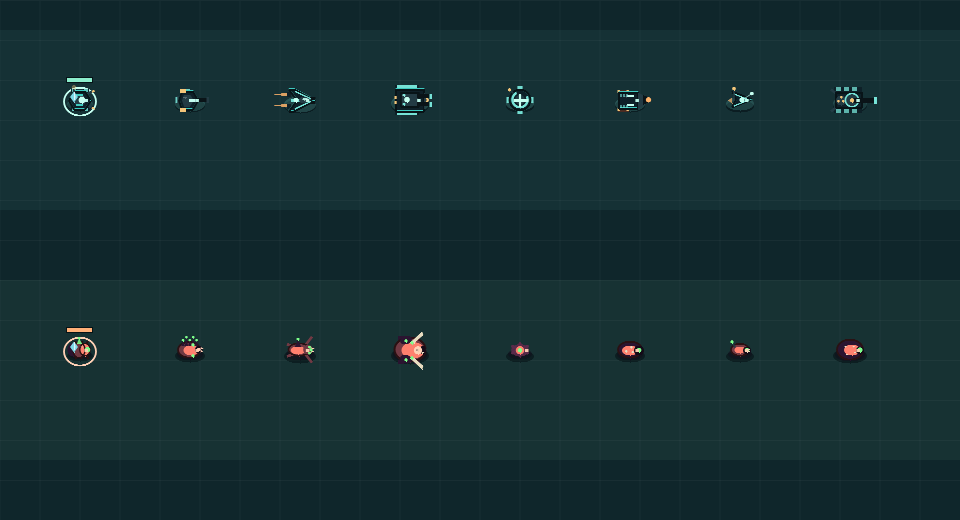
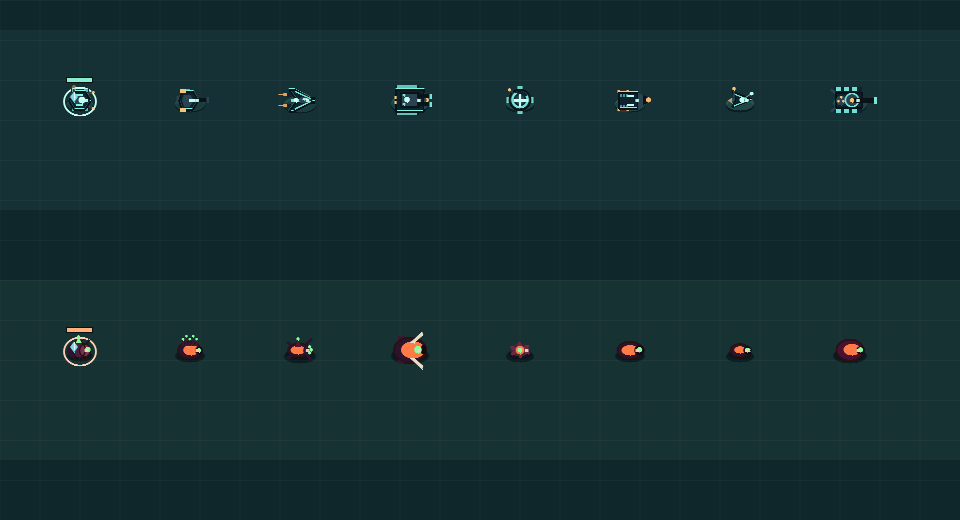
s2 переделан: новые формы S2 по концепту — alien органика orange+шипы, human фаски hullHi, скрины S2 из движка

diff --git a/js/units.s2.js b/js/units.s2.js
@@ -1,147 +1,123 @@
-// S2 — новые скины сезона 2, отдельные от S1. База: концепт units-showcase.png — Гелиос углы/панели teal+amber, Кхарид шипы/хитин orange+violet.
-// Сохраняет совместимость: тот же интерфейс drawUnit(ctx,u,rx,ry), те же u-поля, анимация через performance.now()+id.
-import { TILE, LOGIC_DT, MAP_W, MAP_H, COLORS } from './config.js';
-function rr(ctx,x,y,w,h,r){ r=Math.min(r,w/2,h/2); ctx.beginPath(); ctx.moveTo(x+r,y); ctx.arcTo(x+w,y,x+w,y+h,r); ctx.arcTo(x+w,y+h,x,y+h,r); ctx.arcTo(x,y+h,x,y,r); ctx.arcTo(x,y,x+w,y,r); ctx.closePath(); }
-function poly(ctx,p){ ctx.beginPath(); ctx.moveTo(p[0],p[1]); for(let i=2;i<p.length;i+=2) ctx.lineTo(p[i],p[i+1]); ctx.closePath(); }
+// S2 — отдельные высококачественные скины сезона 2, близкие к концепту design/concepts/units-showcase.png
+// Интерфейс как в S1: drawUnit(ctx,u,rx,ry), анимация t=performance.now*0.001+id*1.618, shadowBlur≤9
+import { TILE, COLORS } from './config.js';
+function rr(c,x,y,w,h,r){r=Math.min(r,w/2,h/2);c.beginPath();c.moveTo(x+r,y);c.arcTo(x+w,y,x+w,y+h,r);c.arcTo(x+w,y+h,x,y+h,r);c.arcTo(x,y+h,x,y,r);c.arcTo(x,y,x+w,y,r);c.closePath();}
+function poly(c,p){c.beginPath();c.moveTo(p[0],p[1]);for(let i=2;i<p.length;i+=2)c.lineTo(p[i],p[i+1]);c.closePath();}
 export function drawUnit(ctx,u,rx,ry){
-  const isP=u.side==='player';
-  const main=isP?COLORS.player:COLORS.enemy;
-  const dark=isP?COLORS.playerDark:COLORS.enemyDark;
-  const bright=isP?COLORS.playerBright:COLORS.enemyBright;
-  const hull='#0e2028', hull2='#233b44', hullHi='#3ecac0', amber='#f3c579', heat='#ffb36b';
-  const flesh='#2a1430', flesh2='#5a2a4a', maw='#140a18', bone='#e8dcc0', outline=isP?'#081418':'#2a1113';
-  const bio='#7dff8a', alien=u.faction==='alien';
-  ctx.fillStyle='rgba(0,8,13,0.47)'; ctx.beginPath(); ctx.ellipse(rx,ry+6,u.r+3,u.r*0.55,0,0,Math.PI*2); ctx.fill();
-  if(u.selected){ ctx.strokeStyle=bright; ctx.lineWidth=1.8; ctx.beginPath(); ctx.ellipse(rx,ry+2,u.r+6,u.r+4,0,0,Math.PI*2); ctx.stroke(); }
-  ctx.save(); ctx.translate(rx,ry); ctx.rotate(u.angle);
-  const t=performance.now()*0.001+u.id*1.618;
-  const pulse=0.5+0.5*Math.sin(t*2.85), flick=0.72+0.28*Math.sin(t*23+u.id), step=u.moving?Math.sin(t*14):0, sway=Math.sin(t*2.1)*0.5;
-  const cdMax=u.cfg.cooldown||1, recoil=u.cd>0?Math.min(1,u.cd/cdMax):0, heatGlow=Math.max(pulse*0.35,recoil), eng=u.moving?1:0.45;
-  const spec=(x,y,rx,ry,a=0.3)=>{ ctx.fillStyle=`rgba(255,255,255,${a})`; ctx.beginPath(); ctx.ellipse(x,y,rx,ry,0,0,Math.PI*2); ctx.fill(); };
+  const isP=u.side==='player', main=isP?COLORS.player:COLORS.enemy, dark=isP?COLORS.playerDark:COLORS.enemyDark, bright=isP?COLORS.playerBright:COLORS.enemyBright;
+  const hull='#0e2230', hull2='#2a4350', hullHi='#7df3e2', amber='#f3c579', heat='#ffb86b', bio='#8aff9e', flesh='#3a1830', maw='#120a14', bone='#e9dcc0', outline=isP?'#081418':'#2a1113', alien=u.faction==='alien';
+  ctx.fillStyle='rgba(0,8,13,0.48)';ctx.beginPath();ctx.ellipse(rx,ry+6,u.r+3,u.r*0.55,0,0,Math.PI*2);ctx.fill();
+  if(u.selected){ctx.strokeStyle=bright;ctx.lineWidth=1.8;ctx.beginPath();ctx.ellipse(rx,ry+2,u.r+6,u.r+4,0,0,Math.PI*2);ctx.stroke();}
+  ctx.save();ctx.translate(rx,ry);ctx.rotate(u.angle);
+  const t=performance.now()*0.001+u.id*1.618, pulse=0.5+0.5*Math.sin(t*2.85), flick=0.72+0.28*Math.sin(t*23+u.id), step=u.moving?Math.sin(t*14):0, sway=Math.sin(t*2.1)*0.5, cdMax=u.cfg.cooldown||1, recoil=u.cd>0?Math.min(1,u.cd/cdMax):0, eng=u.moving?1:0.45, heatGlow=Math.max(pulse*0.35,recoil);
+  const spec=(x,y,rx,ry,a=0.28)=>{ctx.fillStyle=`rgba(255,255,255,${a})`;ctx.beginPath();ctx.ellipse(x,y,rx,ry,0,0,Math.PI*2);ctx.fill();};
   if(alien){
-    ctx.fillStyle='rgba(20,8,26,0.4)'; ctx.beginPath(); ctx.ellipse(0,4,u.r+1,u.r*0.5,0,0,Math.PI*2); ctx.fill();
+    ctx.fillStyle='rgba(18,8,24,0.42)';ctx.beginPath();ctx.ellipse(0,4,u.r+1,u.r*0.5,0,0,Math.PI*2);ctx.fill();
     if(u.type==='worker'){
-      // S2 собиратель: 3 бронированных сегмента, массивные клешни, спинной кристалл
-      ctx.strokeStyle=outline; ctx.lineWidth=2;
-      for(let i=0;i<3;i++){ const lx=-6+i*6, sw=(i%2?step:-step)*1.3; ctx.beginPath(); ctx.moveTo(lx,-4); ctx.lineTo(lx+2+sw,-9); ctx.stroke(); ctx.beginPath(); ctx.moveTo(lx,4); ctx.lineTo(lx+2-sw,9); ctx.stroke(); }
-      ctx.fillStyle=flesh; ctx.beginPath(); ctx.ellipse(-7,0,5.5,6.8,0,0,Math.PI*2); ctx.fill();
-      ctx.fillStyle=dark; ctx.beginPath(); ctx.ellipse(-1,0,6,7.8,0,0,Math.PI*2); ctx.fill();
-      ctx.fillStyle=main; ctx.beginPath(); ctx.ellipse(5,0,5.2,6.2,0,0,Math.PI*2); ctx.fill();
-      ctx.strokeStyle=outline; ctx.lineWidth=1.4; ctx.beginPath(); ctx.ellipse(-1,0,6,7.8,0,0,Math.PI*2); ctx.stroke(); ctx.beginPath(); ctx.ellipse(5,0,5.2,6.2,0,0,Math.PI*2); ctx.stroke();
-      // S2: кристаллический нарост на спине
-      ctx.fillStyle=bio; ctx.globalAlpha=0.9; poly(ctx,[-3,-7, -1,-12, 2,-7]); ctx.fill(); ctx.globalAlpha=1; ctx.beginPath(); ctx.arc(-1,-12,1.4,0,Math.PI*2); ctx.fill();
-      ctx.strokeStyle=bright; ctx.lineWidth=2; ctx.beginPath(); ctx.moveTo(9,-4); ctx.quadraticCurveTo(14,-4,15,-7); ctx.stroke(); ctx.beginPath(); ctx.moveTo(9,4); ctx.quadraticCurveTo(14,4,15,7); ctx.stroke();
-      ctx.shadowColor=bio; ctx.shadowBlur=7; ctx.fillStyle=bio; ctx.beginPath(); ctx.arc(7.5,0,2.6+pulse,0,Math.PI*2); ctx.fill(); ctx.shadowBlur=0; spec(2,-4,1.8,1,0.18);
+      // S2: трёхсегментный краб, бронированные пластины, кристалл на спине, массивные клешни
+      ctx.strokeStyle=outline;ctx.lineWidth=2.2;for(let i=0;i<3;i++){const lx=-6+i*6,sw=(i%2?step:-step)*1.4;ctx.beginPath();ctx.moveTo(lx,-4);ctx.lineTo(lx+2+sw,-10);ctx.stroke();ctx.beginPath();ctx.moveTo(lx,4);ctx.lineTo(lx+2-sw,10);ctx.stroke();}
+      ctx.fillStyle='#2e1430';ctx.beginPath();ctx.ellipse(-7,0,5.8,7,0,0,Math.PI*2);ctx.fill();
+      ctx.fillStyle='#4a2040';ctx.beginPath();ctx.ellipse(-1,0,6.2,8,0,0,Math.PI*2);ctx.fill();
+      ctx.fillStyle='#7a2e52';ctx.beginPath();ctx.ellipse(5,0,5.4,6.4,0,0,Math.PI*2);ctx.fill();
+      ctx.strokeStyle=outline;ctx.lineWidth=1.4;ctx.beginPath();ctx.ellipse(-1,0,6.2,8,0,0,Math.PI*2);ctx.stroke();ctx.beginPath();ctx.ellipse(5,0,5.4,6.4,0,0,Math.PI*2);ctx.stroke();
+      // спинной кристалл S2
+      ctx.fillStyle=bio;poly(ctx,[-4,-7.5,-1.5,-13,1.5,-7.5]);ctx.fill();ctx.shadowColor=bio;ctx.shadowBlur=7;ctx.beginPath();ctx.arc(-1.5,-13,1.6,0,Math.PI*2);ctx.fill();ctx.shadowBlur=0;
+      ctx.strokeStyle=bright;ctx.lineWidth=2;ctx.beginPath();ctx.moveTo(9,-3.5);ctx.quadraticCurveTo(14,-3.5,15.5,-7);ctx.stroke();ctx.beginPath();ctx.moveTo(9,3.5);ctx.quadraticCurveTo(14,3.5,15.5,7);ctx.stroke();
+      ctx.shadowColor=bio;ctx.shadowBlur=7;ctx.fillStyle=bio;ctx.beginPath();ctx.arc(7.8,0,2.8+pulse,0,Math.PI*2);ctx.fill();ctx.shadowBlur=0;
     } else if(u.type==='marine'){
-      ctx.fillStyle=dark; ctx.beginPath(); ctx.ellipse(-1,0,11,7.8,0,0,Math.PI*2); ctx.fill(); ctx.strokeStyle=outline; ctx.lineWidth=1.8; ctx.beginPath(); ctx.ellipse(-1,0,11,7.8,0,0,Math.PI*2); ctx.stroke();
-      ctx.fillStyle=main; ctx.beginPath(); ctx.ellipse(1,0,7.5,5.2,0,0,Math.PI*2); ctx.fill();
-      for(let i=0;i<5;i++){ const sx=-7+i*3.4,h=5.5+(i%2)*2.5; ctx.fillStyle=flesh; poly(ctx,[sx-1.6,-4.5,sx,-4.5-h,sx+1.6,-4.5]); ctx.fill(); ctx.fillStyle=bio; ctx.beginPath(); ctx.arc(sx,-4.5-h,1.3,0,Math.PI*2); ctx.fill(); }
-      ctx.fillStyle=bio; ctx.beginPath(); ctx.arc(3,-5.4,1.6,0,Math.PI*2); ctx.fill(); ctx.beginPath(); ctx.arc(3,5.4,1.6,0,Math.PI*2); ctx.fill();
-      ctx.fillStyle=maw; ctx.beginPath(); ctx.arc(8.8,0,3.8,0,Math.PI*2); ctx.fill();
-      ctx.fillStyle=bright; poly(ctx,[10.8,-2.8,13.4,-1.5,10.8,-0.4]); ctx.fill(); poly(ctx,[10.8,2.8,13.4,1.5,10.8,0.4]); ctx.fill();
-      ctx.shadowColor=bright; ctx.shadowBlur=8; ctx.fillStyle=bright; ctx.beginPath(); ctx.arc(8.8,0,1.8+pulse*0.8,0,Math.PI*2); ctx.fill(); ctx.shadowBlur=0;
+      ctx.fillStyle='#2a1430';ctx.beginPath();ctx.ellipse(-0.5,0,11.5,8.2,0,0,Math.PI*2);ctx.fill();ctx.strokeStyle=outline;ctx.lineWidth=1.8;ctx.stroke();
+      ctx.fillStyle='#ff7a45';ctx.beginPath();ctx.ellipse(1,0,7.8,5.4,0,0,Math.PI*2);ctx.fill();
+      for(let i=0;i<5;i++){const sx=-7+i*3.4,h=6+(i%2)*2.8;ctx.fillStyle='#3a1830';poly(ctx,[sx-1.7,-4.6,sx,-4.6-h,sx+1.7,-4.6]);ctx.fill();ctx.fillStyle=bio;ctx.beginPath();ctx.arc(sx,-4.6-h,1.3,0,Math.PI*2);ctx.fill();}
+      ctx.fillStyle=maw;ctx.beginPath();ctx.arc(9,0,4,0,Math.PI*2);ctx.fill();ctx.shadowColor=bio;ctx.shadowBlur=7;ctx.fillStyle=bio;ctx.beginPath();ctx.arc(9,0,1.9+pulse*0.8,0,Math.PI*2);ctx.fill();ctx.shadowBlur=0;spec(-2,-4,2,1,0.2);
     } else if(u.type==='buggy'){
-      ctx.strokeStyle=dark; ctx.lineWidth=2.6; const f=step*3; ctx.beginPath(); ctx.moveTo(5,-4); ctx.lineTo(12,-10-f); ctx.stroke(); ctx.beginPath(); ctx.moveTo(5,4); ctx.lineTo(12,10+f); ctx.stroke(); ctx.beginPath(); ctx.moveTo(-6,-4); ctx.lineTo(-13,-9+f); ctx.stroke(); ctx.beginPath(); ctx.moveTo(-6,4); ctx.lineTo(-13,9-f); ctx.stroke();
-      ctx.fillStyle=dark; ctx.beginPath(); ctx.ellipse(-1,0,10.5,6.2,0,0,Math.PI*2); ctx.fill(); ctx.strokeStyle=outline; ctx.lineWidth=1.6; ctx.beginPath(); ctx.ellipse(-1,0,10.5,6.2,0,0,Math.PI*2); ctx.stroke();
-      ctx.fillStyle=main; ctx.beginPath(); ctx.ellipse(-2,0,7.2,4.2,0,0,Math.PI*2); ctx.fill(); ctx.fillStyle=flesh; poly(ctx,[-5,-4,-2,-11,1,-4]); ctx.fill(); ctx.fillStyle=bio; ctx.beginPath(); ctx.arc(-2,-11,1.5,0,Math.PI*2); ctx.fill();
-      ctx.fillStyle=dark; ctx.beginPath(); ctx.arc(8,0,4.8,0,Math.PI*2); ctx.fill(); ctx.fillStyle=bright; poly(ctx,[11.5,-2.7,14.2,-1.6,11.5,-0.6]); ctx.fill(); poly(ctx,[11.5,2.7,14.2,1.6,11.5,0.6]); ctx.fill();
-      ctx.shadowColor=bio; ctx.shadowBlur=6; ctx.fillStyle=bio; ctx.beginPath(); ctx.arc(9.5,-2.7,1.5,0,Math.PI*2); ctx.fill(); ctx.beginPath(); ctx.arc(11,0,1.6,0,Math.PI*2); ctx.fill(); ctx.beginPath(); ctx.arc(9.5,2.7,1.5,0,Math.PI*2); ctx.fill(); ctx.shadowBlur=0;
+      ctx.strokeStyle='#2a1430';ctx.lineWidth=2.8;const f=step*3;ctx.beginPath();ctx.moveTo(5,-4);ctx.lineTo(12,-10-f);ctx.stroke();ctx.beginPath();ctx.moveTo(5,4);ctx.lineTo(12,10+f);ctx.stroke();ctx.beginPath();ctx.moveTo(-6,-4);ctx.lineTo(-13,-9+f);ctx.stroke();ctx.beginPath();ctx.moveTo(-6,4);ctx.lineTo(-13,9-f);ctx.stroke();
+      ctx.fillStyle='#2a1430';ctx.beginPath();ctx.ellipse(-1,0,11,6.6,0,0,Math.PI*2);ctx.fill();ctx.strokeStyle=outline;ctx.lineWidth=1.6;ctx.stroke();
+      ctx.fillStyle='#ff7a45';ctx.beginPath();ctx.ellipse(-2,0,7.4,4.4,0,0,Math.PI*2);ctx.fill();ctx.fillStyle='#5a1030';poly(ctx,[-5,-4,-2,-11.5,1,-4]);ctx.fill();ctx.fillStyle=bio;ctx.beginPath();ctx.arc(-2,-11.5,1.6,0,Math.PI*2);ctx.fill();
+      ctx.fillStyle='#2a1430';ctx.beginPath();ctx.arc(8.2,0,5,0,Math.PI*2);ctx.fill();ctx.shadowColor=bio;ctx.shadowBlur=7;ctx.fillStyle=bio;ctx.beginPath();ctx.arc(9.6,-2.8,1.6,0,Math.PI*2);ctx.fill();ctx.beginPath();ctx.arc(11.2,0,1.7,0,Math.PI*2);ctx.fill();ctx.beginPath();ctx.arc(9.6,2.8,1.6,0,Math.PI*2);ctx.fill();ctx.shadowBlur=0;
     } else if(u.type==='tank'){
-      ctx.fillStyle=flesh; ctx.fillRect(-12,-14,6,4); ctx.fillRect(-12,10,6,4); ctx.fillRect(4,-13.5,6,4); ctx.fillRect(4,9.5,6,4);
-      ctx.fillStyle=dark; ctx.beginPath(); ctx.ellipse(0,0,15.5,12,0,0,Math.PI*2); ctx.fill(); ctx.strokeStyle=outline; ctx.lineWidth=2; ctx.beginPath(); ctx.ellipse(0,0,15.5,12,0,0,Math.PI*2); ctx.stroke();
-      ctx.fillStyle=main; ctx.beginPath(); ctx.ellipse(3,0,11.5,8.2,0,0,Math.PI*2); ctx.fill();
-      ctx.fillStyle=flesh; ctx.beginPath(); ctx.ellipse(-4,-9.5,6,4.2,-0.3,0,Math.PI*2); ctx.fill(); ctx.beginPath(); ctx.ellipse(-4,9.5,6,4.2,0.3,0,Math.PI*2); ctx.fill(); ctx.fillStyle=bio; ctx.beginPath(); ctx.arc(-4,-9.5,1.6,0,Math.PI*2); ctx.fill(); ctx.beginPath(); ctx.arc(-4,9.5,1.6,0,Math.PI*2); ctx.fill();
-      for(const s of [-1,1]){ ctx.fillStyle=bone; ctx.beginPath(); ctx.moveTo(0,8*s); ctx.quadraticCurveTo(6,13*s,12,19*s); ctx.quadraticCurveTo(13.5,16.5*s,13,15*s); ctx.quadraticCurveTo(8,11*s,4,7*s); ctx.closePath(); ctx.fill(); ctx.strokeStyle=outline; ctx.lineWidth=1.2; ctx.stroke(); ctx.fillStyle=bio; ctx.beginPath(); ctx.arc(2,7.5*s,1.6,0,Math.PI*2); ctx.fill(); }
-      ctx.fillStyle=maw; ctx.beginPath(); ctx.ellipse(13,0,2.8,4.5,0,0,Math.PI*2); ctx.fill(); ctx.fillStyle=bone; for(let i=-1;i<=1;i++) poly(ctx,[12,i*2.4-0.8,14.8,i*2.4,12,i*2.4+0.8]); ctx.fill();
-      ctx.shadowColor=bright; ctx.shadowBlur=9; ctx.fillStyle=bright; ctx.beginPath(); ctx.arc(8,0,3.4+pulse,0,Math.PI*2); ctx.fill(); ctx.shadowBlur=0; ctx.fillStyle=maw; ctx.beginPath(); ctx.arc(8,0,1.4,0,Math.PI*2); ctx.fill();
+      ctx.fillStyle='#3a1830';ctx.fillRect(-12,-14,6,4);ctx.fillRect(-12,10,6,4);ctx.fillRect(4,-13.5,6,4);ctx.fillRect(4,9.5,6,4);
+      ctx.fillStyle='#2a1430';ctx.beginPath();ctx.ellipse(0,0,16,12.5,0,0,Math.PI*2);ctx.fill();ctx.strokeStyle=outline;ctx.lineWidth=2;ctx.stroke();
+      ctx.fillStyle='#ff7a45';ctx.beginPath();ctx.ellipse(3,0,12,8.6,0,0,Math.PI*2);ctx.fill();
+      for(const s of[-1,1]){ctx.fillStyle=bone;ctx.beginPath();ctx.moveTo(0,8*s);ctx.quadraticCurveTo(6,13*s,12,19*s);ctx.quadraticCurveTo(13.5,16.5*s,13,15*s);ctx.quadraticCurveTo(8,11*s,4,7*s);ctx.closePath();ctx.fill();ctx.strokeStyle=outline;ctx.lineWidth=1.2;ctx.stroke();}
+      ctx.fillStyle=maw;ctx.beginPath();ctx.ellipse(13.5,0,3,4.8,0,0,Math.PI*2);ctx.fill();ctx.shadowColor=bio;ctx.shadowBlur=8;ctx.fillStyle=bio;ctx.beginPath();ctx.arc(8,0,3.2+pulse,0,Math.PI*2);ctx.fill();ctx.shadowBlur=0;
     } else if(u.type==='medic'){
-      const pr=8.8+pulse; ctx.fillStyle='rgba(90,42,74,0.9)'; ctx.beginPath(); ctx.ellipse(0,0,pr,pr*0.7,0,0,Math.PI*2); ctx.fill();
-      for(let i=0;i<6;i++){ const a=(i*Math.PI*2)/6+t*0.6; ctx.fillStyle=flesh2; ctx.beginPath(); ctx.ellipse(Math.cos(a)*7,Math.sin(a)*4.8,3.2,1.8,a,0,Math.PI*2); ctx.fill(); }
-      ctx.fillStyle=main; ctx.beginPath(); ctx.arc(0,0,4.2,0,Math.PI*2); ctx.fill(); ctx.shadowColor=bio; ctx.shadowBlur=6; ctx.fillStyle=bio; ctx.beginPath(); ctx.arc(0,0,2.2+pulse*0.6,0,Math.PI*2); ctx.fill(); ctx.shadowBlur=0;
+      const pr=9+pulse;ctx.fillStyle='#4a2040';ctx.beginPath();ctx.ellipse(0,0,pr,pr*0.72,0,0,Math.PI*2);ctx.fill();
+      for(let i=0;i<6;i++){const a=(i*Math.PI*2)/6+t*0.6;ctx.fillStyle='#6a2a40';ctx.beginPath();ctx.ellipse(Math.cos(a)*7.5,Math.sin(a)*5,3.4,1.9,a,0,Math.PI*2);ctx.fill();}
+      ctx.fillStyle='#ff7a45';ctx.beginPath();ctx.arc(0,0,4.4,0,Math.PI*2);ctx.fill();ctx.shadowColor=bio;ctx.shadowBlur=7;ctx.fillStyle=bio;ctx.beginPath();ctx.arc(0,0,2.4+pulse*0.6,0,Math.PI*2);ctx.fill();ctx.shadowBlur=0;
     } else if(u.type==='flamer'){
-      ctx.fillStyle=flesh; ctx.beginPath(); ctx.ellipse(0,0,12,8,0,0,Math.PI*2); ctx.fill(); ctx.strokeStyle=outline; ctx.lineWidth=1.8; ctx.stroke();
-      ctx.fillStyle=main; ctx.beginPath(); ctx.ellipse(0,0,8,5,0,0,Math.PI*2); ctx.fill(); ctx.fillStyle=maw; ctx.beginPath(); ctx.arc(9,0,5,0,Math.PI*2); ctx.fill();
-      ctx.shadowColor=bio; ctx.shadowBlur=8; ctx.fillStyle=bio; ctx.beginPath(); ctx.arc(9,0,2+pulse,0,Math.PI*2); ctx.fill(); ctx.shadowBlur=0;
-      for(let i=0;i<3;i++){ const a=t*1.2+i*2; ctx.fillStyle=bone; ctx.beginPath(); ctx.arc(Math.cos(a)*4, Math.sin(a)*3,1.2,0,Math.PI*2); ctx.fill(); }
+      ctx.fillStyle='#2a1430';ctx.beginPath();ctx.ellipse(0,0,12.5,8.5,0,0,Math.PI*2);ctx.fill();ctx.strokeStyle=outline;ctx.lineWidth=1.8;ctx.stroke();
+      ctx.fillStyle='#ff7a45';ctx.beginPath();ctx.ellipse(0,0,8.5,5.2,0,0,Math.PI*2);ctx.fill();ctx.fillStyle=maw;ctx.beginPath();ctx.arc(9.5,0,5.2,0,Math.PI*2);ctx.fill();
+      ctx.shadowColor=bio;ctx.shadowBlur=8;ctx.fillStyle=bio;ctx.beginPath();ctx.arc(9.5,0,2.2+pulse,0,Math.PI*2);ctx.fill();ctx.shadowBlur=0;
     } else if(u.type==='scout'){
-      ctx.fillStyle=dark; ctx.beginPath(); ctx.ellipse(0,0,9,6,0,0,Math.PI*2); ctx.fill(); ctx.strokeStyle=outline; ctx.lineWidth=1.6; ctx.stroke();
-      ctx.fillStyle=main; ctx.beginPath(); ctx.ellipse(0,0,5.5,3.5,0,0,Math.PI*2); ctx.fill();
-      ctx.strokeStyle=hull2; ctx.lineWidth=1.6; ctx.beginPath(); ctx.moveTo(-5,-3); ctx.lineTo(-8,-8); ctx.stroke(); ctx.fillStyle=bio; ctx.beginPath(); ctx.arc(-8,-8,1.6,0,Math.PI*2); ctx.fill();
-      ctx.fillStyle=maw; ctx.beginPath(); ctx.arc(7,0,4,0,Math.PI*2); ctx.fill(); ctx.shadowColor=bio; ctx.shadowBlur=6; ctx.fillStyle=bio; ctx.beginPath(); ctx.arc(7,0,1.6+pulse*0.7,0,Math.PI*2); ctx.fill(); ctx.shadowBlur=0;
-      ctx.fillStyle=bone; poly(ctx,[7,-2,10,-1,7,0]); ctx.fill(); poly(ctx,[7,2,10,1,7,0]); ctx.fill();
+      ctx.fillStyle='#2a1430';ctx.beginPath();ctx.ellipse(0,0,9.5,6.4,0,0,Math.PI*2);ctx.fill();ctx.strokeStyle=outline;ctx.lineWidth=1.6;ctx.stroke();
+      ctx.fillStyle='#ff7a45';ctx.beginPath();ctx.ellipse(0,0,5.8,3.6,0,0,Math.PI*2);ctx.fill();ctx.fillStyle=maw;ctx.beginPath();ctx.arc(7.5,0,4.2,0,Math.PI*2);ctx.fill();
+      ctx.shadowColor=bio;ctx.shadowBlur=7;ctx.fillStyle=bio;ctx.beginPath();ctx.arc(7.5,0,1.8+pulse*0.7,0,Math.PI*2);ctx.fill();ctx.shadowBlur=0;ctx.fillStyle=bone;poly(ctx,[7.5,-2,10.5,-1,7.5,0]);ctx.fill();poly(ctx,[7.5,2,10.5,1,7.5,0]);ctx.fill();
     } else {
-      ctx.fillStyle=flesh; ctx.beginPath(); ctx.ellipse(0,0,13,10,0,0,Math.PI*2); ctx.fill(); ctx.strokeStyle=outline; ctx.lineWidth=1.8; ctx.stroke();
-      ctx.fillStyle=main; ctx.beginPath(); ctx.ellipse(2,0,8,5.5,0,0,Math.PI*2); ctx.fill();
-      ctx.fillStyle=maw; ctx.beginPath(); ctx.arc(10,0,4,0,Math.PI*2); ctx.fill(); ctx.shadowColor=bio; ctx.shadowBlur=7; ctx.fillStyle=bio; ctx.beginPath(); ctx.arc(10,0,2+pulse,0,Math.PI*2); ctx.fill(); ctx.shadowBlur=0;
-      for(let i=0;i<4;i++){ const a=t*0.8+i*1.5; ctx.fillStyle=bone; ctx.beginPath(); ctx.arc(Math.cos(a)*6, Math.sin(a)*5,1,0,Math.PI*2); ctx.fill(); }
+      ctx.fillStyle='#4a1030';ctx.beginPath();ctx.ellipse(0,0,13.5,10.5,0,0,Math.PI*2);ctx.fill();ctx.strokeStyle=outline;ctx.lineWidth=1.8;ctx.stroke();
+      ctx.fillStyle='#ff7a45';ctx.beginPath();ctx.ellipse(2,0,8.5,5.8,0,0,Math.PI*2);ctx.fill();ctx.fillStyle=maw;ctx.beginPath();ctx.arc(10.5,0,4.2,0,Math.PI*2);ctx.fill();
+      ctx.shadowColor=bio;ctx.shadowBlur=7;ctx.fillStyle=bio;ctx.beginPath();ctx.arc(10.5,0,2.2+pulse,0,Math.PI*2);ctx.fill();ctx.shadowBlur=0;
     }
   } else {
-    // S2 Гелиос — более острые панели, контрастные фаски, яркий hullHi кант
-    ctx.fillStyle=main; ctx.globalAlpha=0.12+0.09*eng*flick; ctx.beginPath(); ctx.ellipse(0,4,u.r+3,u.r*0.62,0,0,Math.PI*2); ctx.fill(); ctx.globalAlpha=1;
+    ctx.fillStyle=main;ctx.globalAlpha=0.12+0.09*eng*flick;ctx.beginPath();ctx.ellipse(0,4,u.r+3,u.r*0.62,0,0,Math.PI*2);ctx.fill();ctx.globalAlpha=1;
     if(u.type==='worker'){
-      ctx.fillStyle=hull; ctx.fillRect(-9,-11,6,3.4); ctx.fillRect(-9,7.6,6,3.4); ctx.fillRect(3,-11,6,3.4); ctx.fillRect(3,7.6,6,3.4);
-      ctx.fillStyle=main; ctx.globalAlpha=0.6+0.4*flick*eng; ctx.fillRect(-8,-10.6,4,2.4); ctx.fillRect(-8,8.2,4,2.4); ctx.fillRect(4,-10.6,4,2.4); ctx.fillRect(4,8.2,4,2.4); ctx.globalAlpha=1;
-      ctx.strokeStyle=hull2; ctx.lineWidth=2; ctx.beginPath(); ctx.moveTo(6,-5); ctx.lineTo(12,-7+step); ctx.stroke(); ctx.beginPath(); ctx.moveTo(6,5); ctx.lineTo(12,7-step); ctx.stroke();
-      ctx.strokeStyle=amber; ctx.lineWidth=1.8; ctx.beginPath(); ctx.moveTo(12,-7+step); ctx.lineTo(14.5,-8+step); ctx.stroke(); ctx.beginPath(); ctx.moveTo(12,7-step); ctx.lineTo(14.5,8-step); ctx.stroke();
-      ctx.fillStyle=hull; poly(ctx,[11,0,5,-9,-6,-9,-11,0,-6,9,5,9]); ctx.fill(); ctx.strokeStyle=hullHi; ctx.lineWidth=1.2; ctx.stroke();
-      ctx.strokeStyle=outline; ctx.lineWidth=2; ctx.stroke(); ctx.fillStyle=hull2; poly(ctx,[7,0,3,-5,-4,-5,-7,0,-4,5,3,5]); ctx.fill();
-      ctx.strokeStyle=hullHi; ctx.lineWidth=1.2; ctx.beginPath(); ctx.moveTo(-4,-5); ctx.lineTo(3,-5); ctx.stroke(); ctx.beginPath(); ctx.moveTo(-4,5); ctx.lineTo(3,5); ctx.stroke();
-      ctx.strokeStyle=hull2; ctx.lineWidth=2; ctx.beginPath(); ctx.moveTo(-6,-8); ctx.lineTo(-6,-12); ctx.stroke(); ctx.fillStyle=amber; ctx.globalAlpha=0.4+0.6*(0.5+0.5*Math.sin(t*6)); ctx.beginPath(); ctx.arc(-6,-13,2.2,0,Math.PI*2); ctx.fill(); ctx.globalAlpha=1;
-      ctx.shadowColor=bright; ctx.shadowBlur=7; ctx.fillStyle=bright; ctx.beginPath(); ctx.arc(2,0,2.8+pulse,0,Math.PI*2); ctx.fill(); ctx.shadowBlur=0; spec(2,-4,2,1,0.2);
+      ctx.fillStyle=hull;ctx.fillRect(-9,-11,6,3.4);ctx.fillRect(-9,7.6,6,3.4);ctx.fillRect(3,-11,6,3.4);ctx.fillRect(3,7.6,6,3.4);
+      ctx.fillStyle=main;ctx.globalAlpha=0.6+0.4*flick*eng;ctx.fillRect(-8,-10.6,4,2.4);ctx.fillRect(-8,8.2,4,2.4);ctx.fillRect(4,-10.6,4,2.4);ctx.fillRect(4,8.2,4,2.4);ctx.globalAlpha=1;
+      ctx.strokeStyle=hull2;ctx.lineWidth=2;ctx.beginPath();ctx.moveTo(6,-5);ctx.lineTo(12,-7+step);ctx.stroke();ctx.beginPath();ctx.moveTo(6,5);ctx.lineTo(12,7-step);ctx.stroke();
+      ctx.strokeStyle=amber;ctx.lineWidth=1.8;ctx.beginPath();ctx.moveTo(12,-7+step);ctx.lineTo(14.5,-8+step);ctx.stroke();ctx.beginPath();ctx.moveTo(12,7-step);ctx.lineTo(14.5,8-step);ctx.stroke();
+      ctx.fillStyle=hull;poly(ctx,[11,0,5,-9,-6,-9,-11,0,-6,9,5,9]);ctx.fill();ctx.strokeStyle=hullHi;ctx.lineWidth=1.4;ctx.stroke();ctx.strokeStyle=outline;ctx.lineWidth=2;ctx.stroke();
+      ctx.fillStyle=hull2;poly(ctx,[7,0,3,-5,-4,-5,-7,0,-4,5,3,5]);ctx.fill();ctx.strokeStyle=hullHi;ctx.lineWidth=1.2;ctx.beginPath();ctx.moveTo(-4,-5);ctx.lineTo(3,-5);ctx.stroke();ctx.beginPath();ctx.moveTo(-4,5);ctx.lineTo(3,5);ctx.stroke();
+      ctx.strokeStyle=hull2;ctx.lineWidth=2;ctx.beginPath();ctx.moveTo(-6,-8);ctx.lineTo(-6,-12);ctx.stroke();ctx.fillStyle=amber;ctx.globalAlpha=0.4+0.6*(0.5+0.5*Math.sin(t*6));ctx.beginPath();ctx.arc(-6,-13,2.2,0,Math.PI*2);ctx.fill();ctx.globalAlpha=1;
+      ctx.shadowColor=bright;ctx.shadowBlur=7;ctx.fillStyle=bright;ctx.beginPath();ctx.arc(2,0,2.8+pulse,0,Math.PI*2);ctx.fill();ctx.shadowBlur=0;
     } else if(u.type==='marine'){
-      ctx.fillStyle=main; ctx.globalAlpha=0.5+0.5*flick*eng; ctx.fillRect(-5,-10.6,5,2.4); ctx.fillRect(-5,8.2,5,2.4); ctx.globalAlpha=1;
-      ctx.fillStyle=hull2; ctx.fillRect(-13.5,-4,3,8); ctx.fillStyle=main; ctx.globalAlpha=0.4+0.6*eng*flick; ctx.fillRect(-14.5,-3,1.8,6); ctx.globalAlpha=1;
-      const bl=13-recoil*3.5; ctx.fillStyle='#0a1418'; ctx.fillRect(6,-1.9,bl,3.8); ctx.fillStyle=hull2; ctx.fillRect(6+bl-2.5,-2.8,2.5,5.6); if(recoil>0.55){ ctx.fillStyle=heat; ctx.beginPath(); ctx.arc(6+bl+1.5,0,2.6,0,Math.PI*2); ctx.fill(); }
-      ctx.fillStyle=hull; poly(ctx,[8,0,3,-9,-8,-9,-11,0,-8,9,3,9]); ctx.fill(); ctx.strokeStyle=hullHi; ctx.lineWidth=1.2; ctx.stroke(); ctx.strokeStyle=outline; ctx.lineWidth=2; ctx.stroke();
-      ctx.fillStyle=hull2; poly(ctx,[4,0,0,-6,-6,-6,-8,0,-6,6,0,6]); ctx.fill();
-      ctx.fillStyle=amber; ctx.fillRect(-10,-11.5,6,3.6); ctx.fillRect(-10,7.9,6,3.6); ctx.strokeStyle=outline; ctx.lineWidth=1; ctx.strokeRect(-10,-11.5,6,3.6); ctx.strokeRect(-10,7.9,6,3.6);
-      ctx.shadowColor=bright; ctx.shadowBlur=7; ctx.fillStyle=bright; ctx.fillRect(-1,-1.4+sway*0.4,6.5,2.8); ctx.shadowBlur=0; spec(-5,-3,2,1,0.22);
+      ctx.fillStyle=main;ctx.globalAlpha=0.5+0.5*flick*eng;ctx.fillRect(-5,-10.6,5,2.4);ctx.fillRect(-5,8.2,5,2.4);ctx.globalAlpha=1;ctx.fillStyle=hull2;ctx.fillRect(-13.5,-4,3,8);
+      const bl=13-recoil*3.5;ctx.fillStyle='#0a1418';ctx.fillRect(6,-1.9,bl,3.8);ctx.fillStyle=hull2;ctx.fillRect(6+bl-2.5,-2.8,2.5,5.6);if(recoil>0.55){ctx.fillStyle=heat;ctx.beginPath();ctx.arc(6+bl+1.5,0,2.6,0,Math.PI*2);ctx.fill();}
+      ctx.fillStyle=hull;poly(ctx,[8,0,3,-9,-8,-9,-11,0,-8,9,3,9]);ctx.fill();ctx.strokeStyle=hullHi;ctx.lineWidth=1.4;ctx.stroke();ctx.strokeStyle=outline;ctx.lineWidth=2;ctx.stroke();
+      ctx.fillStyle=hull2;poly(ctx,[4,0,0,-6,-6,-6,-8,0,-6,6,0,6]);ctx.fill();ctx.fillStyle=amber;ctx.fillRect(-10,-11.5,6,3.6);ctx.fillRect(-10,7.9,6,3.6);ctx.strokeStyle=outline;ctx.lineWidth=1;ctx.strokeRect(-10,-11.5,6,3.6);ctx.strokeRect(-10,7.9,6,3.6);
+      ctx.shadowColor=bright;ctx.shadowBlur=7;ctx.fillStyle=bright;ctx.fillRect(-1,-1.4+sway*0.4,6.5,2.8);ctx.shadowBlur=0;
     } else if(u.type==='buggy'){
-      const fl=(5+9*flick)*eng; ctx.fillStyle=heat; ctx.globalAlpha=0.85; poly(ctx,[-12,-7.5,-12-fl,-5.5,-12,-3.5]); ctx.fill(); poly(ctx,[-12,7.5,-12-fl,5.5,-12,3.5]); ctx.fill(); ctx.globalAlpha=1;
-      ctx.fillStyle=hull; ctx.fillRect(-13,-8.5,4,5); ctx.fillRect(-13,3.5,4,5);
-      ctx.fillStyle=hull; poly(ctx,[15,0,-6,-11,-11,-11,-3,0,-11,11,-6,11]); ctx.fill(); ctx.strokeStyle=hullHi; ctx.lineWidth=1.4; ctx.stroke(); ctx.strokeStyle=outline; ctx.lineWidth=2; ctx.stroke();
-      ctx.strokeStyle=main; ctx.lineWidth=1.4; ctx.beginPath(); ctx.moveTo(11,-1.5); ctx.lineTo(-5,-9); ctx.stroke(); ctx.beginPath(); ctx.moveTo(11,1.5); ctx.lineTo(-5,9); ctx.stroke();
-      ctx.fillStyle=main; ctx.fillRect(-9,-1.4,14,2.8); ctx.fillStyle=hull2; ctx.beginPath(); ctx.ellipse(4,0,5,3.4,0,0,Math.PI*2); ctx.fill(); ctx.fillStyle=bright; ctx.globalAlpha=0.9; ctx.beginPath(); ctx.ellipse(5,-0.6,2.6,1.4,-0.2,0,Math.PI*2); ctx.fill(); ctx.globalAlpha=1;
-      ctx.fillStyle='#0a1418'; ctx.fillRect(11,-3.6,6.5-recoil*2,1.7); ctx.fillRect(11,1.9,6.5-recoil*2,1.7);
-      ctx.shadowColor=bright; ctx.shadowBlur=7; ctx.fillStyle=bright; ctx.beginPath(); ctx.arc(-4,0,2.2+pulse*0.7,0,Math.PI*2); ctx.fill(); ctx.shadowBlur=0;
+      const fl=(5+9*flick)*eng;ctx.fillStyle=heat;ctx.globalAlpha=0.85;poly(ctx,[-12,-7.5,-12-fl,-5.5,-12,-3.5]);ctx.fill();poly(ctx,[-12,7.5,-12-fl,5.5,-12,3.5]);ctx.fill();ctx.globalAlpha=1;
+      ctx.fillStyle=hull;ctx.fillRect(-13,-8.5,4,5);ctx.fillRect(-13,3.5,4,5);ctx.fillStyle=hull;poly(ctx,[15,0,-6,-11,-11,-11,-3,0,-11,11,-6,11]);ctx.fill();ctx.strokeStyle=hullHi;ctx.lineWidth=1.4;ctx.stroke();ctx.strokeStyle=outline;ctx.lineWidth=2;ctx.stroke();
+      ctx.strokeStyle=main;ctx.lineWidth=1.4;ctx.beginPath();ctx.moveTo(11,-1.5);ctx.lineTo(-5,-9);ctx.stroke();ctx.beginPath();ctx.moveTo(11,1.5);ctx.lineTo(-5,9);ctx.stroke();
+      ctx.fillStyle=main;ctx.fillRect(-9,-1.4,14,2.8);ctx.fillStyle=hull2;ctx.beginPath();ctx.ellipse(4,0,5,3.4,0,0,Math.PI*2);ctx.fill();ctx.fillStyle=bright;ctx.globalAlpha=0.9;ctx.beginPath();ctx.ellipse(5,-0.6,2.6,1.4,-0.2,0,Math.PI*2);ctx.fill();ctx.globalAlpha=1;
+      ctx.fillStyle='#0a1418';ctx.fillRect(11,-3.6,6.5-recoil*2,1.7);ctx.fillRect(11,1.9,6.5-recoil*2,1.7);ctx.shadowColor=bright;ctx.shadowBlur=7;ctx.fillStyle=bright;ctx.beginPath();ctx.arc(-4,0,2.2+pulse*0.7,0,Math.PI*2);ctx.fill();ctx.shadowBlur=0;
     } else if(u.type==='tank'){
-      ctx.fillStyle=hull; ctx.fillRect(-15,-15,24,5); ctx.fillRect(-15,10,24,5); ctx.fillStyle=main; ctx.globalAlpha=0.5+0.5*flick*eng; ctx.fillRect(-13,-14.2,20,3.2); ctx.fillRect(-13,11,20,3.2); ctx.globalAlpha=1;
-      ctx.fillStyle=hull; rr(ctx,-14,-11,28,22,6); ctx.fill(); ctx.strokeStyle=hullHi; ctx.lineWidth=1.4; ctx.stroke(); ctx.strokeStyle=outline; ctx.lineWidth=2; ctx.stroke();
-      ctx.fillStyle=hull2; poly(ctx,[14,-8,19.5,0,14,8]); ctx.fill(); ctx.strokeStyle=amber; ctx.lineWidth=2; ctx.beginPath(); ctx.moveTo(15,-5); ctx.lineTo(18,0); ctx.lineTo(15,5); ctx.stroke();
-      ctx.fillStyle=hull2; rr(ctx,-9,-7,18,14,5); ctx.fill(); ctx.strokeStyle=outline; ctx.lineWidth=1.6; ctx.stroke(); ctx.fillStyle=main; ctx.beginPath(); ctx.arc(-6,-4.5,1.4,0,Math.PI*2); ctx.fill(); ctx.beginPath(); ctx.arc(-6,4.5,1.4,0,Math.PI*2); ctx.fill();
-      const bl2=15-recoil*4; ctx.fillStyle='#0a1418'; ctx.fillRect(7,-5.6,bl2,3.4); ctx.fillRect(7,2.2,bl2,3.4); ctx.fillStyle=main; ctx.fillRect(7+bl2-2.5,-6.4,2.5,5); ctx.fillRect(7+bl2-2.5,1.4,2.5,5); if(recoil>0.5){ ctx.fillStyle=heat; ctx.beginPath(); ctx.arc(7+bl2+1.5,-3.9,2.4,0,Math.PI*2); ctx.fill(); ctx.beginPath(); ctx.arc(7+bl2+1.5,3.9,2.4,0,Math.PI*2); ctx.fill(); }
-      ctx.shadowColor=bright; ctx.shadowBlur=7; ctx.fillStyle=bright; ctx.beginPath(); ctx.arc(-3,0,2.8+pulse*0.8,0,Math.PI*2); ctx.fill(); ctx.shadowBlur=0; ctx.fillStyle=amber; ctx.fillRect(-15.5,-4,2.2,3); ctx.fillRect(-15.5,1,2.2,3); spec(-6,-5,2,1,0.18);
+      ctx.fillStyle=hull;ctx.fillRect(-15,-15,24,5);ctx.fillRect(-15,10,24,5);ctx.fillStyle=main;ctx.globalAlpha=0.5+0.5*flick*eng;ctx.fillRect(-13,-14.2,20,3.2);ctx.fillRect(-13,11,20,3.2);ctx.globalAlpha=1;
+      ctx.fillStyle=hull;rr(ctx,-14,-11,28,22,6);ctx.fill();ctx.strokeStyle=hullHi;ctx.lineWidth=1.4;ctx.stroke();ctx.strokeStyle=outline;ctx.lineWidth=2;ctx.stroke();
+      ctx.fillStyle=hull2;poly(ctx,[14,-8,19.5,0,14,8]);ctx.fill();ctx.strokeStyle=amber;ctx.lineWidth=2;ctx.beginPath();ctx.moveTo(15,-5);ctx.lineTo(18,0);ctx.lineTo(15,5);ctx.stroke();
+      ctx.fillStyle=hull2;rr(ctx,-9,-7,18,14,5);ctx.fill();ctx.strokeStyle=outline;ctx.lineWidth=1.6;ctx.stroke();ctx.fillStyle=main;ctx.beginPath();ctx.arc(-6,-4.5,1.4,0,Math.PI*2);ctx.fill();ctx.beginPath();ctx.arc(-6,4.5,1.4,0,Math.PI*2);ctx.fill();
+      const bl2=15-recoil*4;ctx.fillStyle='#0a1418';ctx.fillRect(7,-5.6,bl2,3.4);ctx.fillRect(7,2.2,bl2,3.4);ctx.fillStyle=main;ctx.fillRect(7+bl2-2.5,-6.4,2.5,5);ctx.fillRect(7+bl2-2.5,1.4,2.5,5);if(recoil>0.5){ctx.fillStyle=heat;ctx.beginPath();ctx.arc(7+bl2+1.5,-3.9,2.4,0,Math.PI*2);ctx.fill();ctx.beginPath();ctx.arc(7+bl2+1.5,3.9,2.4,0,Math.PI*2);ctx.fill();}
+      ctx.shadowColor=bright;ctx.shadowBlur=7;ctx.fillStyle=bright;ctx.beginPath();ctx.arc(-3,0,2.8+pulse*0.8,0,Math.PI*2);ctx.fill();ctx.shadowBlur=0;ctx.fillStyle=amber;ctx.fillRect(-15.5,-4,2.2,3);ctx.fillRect(-15.5,1,2.2,3);
     } else if(u.type==='medic'){
-      ctx.fillStyle=main; ctx.globalAlpha=0.55+0.45*flick; ctx.fillRect(-13.5,-2.6,3.4,5.2); ctx.fillRect(10.1,-2.6,3.4,5.2); ctx.fillRect(-2.6,-13.5,5.2,3.4); ctx.fillRect(-2.6,10.1,5.2,3.4); ctx.globalAlpha=1;
-      ctx.fillStyle=hull; ctx.beginPath(); ctx.arc(0,0,10.4,0,Math.PI*2); ctx.fill(); ctx.strokeStyle=hullHi; ctx.lineWidth=1.4; ctx.stroke(); ctx.strokeStyle=outline; ctx.lineWidth=2; ctx.stroke();
-      ctx.strokeStyle=main; ctx.lineWidth=2.4; ctx.beginPath(); ctx.arc(0,0,7.6,t*0.8,t*0.8+Math.PI*1.5); ctx.stroke();
-      ctx.fillStyle=hull2; ctx.beginPath(); ctx.arc(0,0,4.8,0,Math.PI*2); ctx.fill(); const cw2=1.8+pulse*0.5; ctx.shadowColor=bright; ctx.shadowBlur=7; ctx.fillStyle=bright; ctx.fillRect(-cw2/2,-6.4,cw2,12.8); ctx.fillRect(-6.4,-cw2/2,12.8,cw2); ctx.shadowBlur=0;
-      ctx.strokeStyle=hull2; ctx.lineWidth=1.6; ctx.beginPath(); ctx.moveTo(-7,-7); ctx.lineTo(-10,-10); ctx.stroke(); ctx.fillStyle=amber; ctx.beginPath(); ctx.arc(-10.5,-10.5,1.6,0,Math.PI*2); ctx.fill();
+      ctx.fillStyle=main;ctx.globalAlpha=0.55+0.45*flick;ctx.fillRect(-13.5,-2.6,3.4,5.2);ctx.fillRect(10.1,-2.6,3.4,5.2);ctx.fillRect(-2.6,-13.5,5.2,3.4);ctx.fillRect(-2.6,10.1,5.2,3.4);ctx.globalAlpha=1;
+      ctx.fillStyle=hull;ctx.beginPath();ctx.arc(0,0,10.4,0,Math.PI*2);ctx.fill();ctx.strokeStyle=hullHi;ctx.lineWidth=1.4;ctx.stroke();ctx.strokeStyle=outline;ctx.lineWidth=2;ctx.stroke();
+      ctx.strokeStyle=main;ctx.lineWidth=2.4;ctx.beginPath();ctx.arc(0,0,7.6,t*0.8,t*0.8+Math.PI*1.5);ctx.stroke();ctx.fillStyle=hull2;ctx.beginPath();ctx.arc(0,0,4.8,0,Math.PI*2);ctx.fill();
+      const cw2=1.8+pulse*0.5;ctx.shadowColor=bright;ctx.shadowBlur=7;ctx.fillStyle=bright;ctx.fillRect(-cw2/2,-6.4,cw2,12.8);ctx.fillRect(-6.4,-cw2/2,12.8,cw2);ctx.shadowBlur=0;
+      ctx.strokeStyle=hull2;ctx.lineWidth=1.6;ctx.beginPath();ctx.moveTo(-7,-7);ctx.lineTo(-10,-10);ctx.stroke();ctx.fillStyle=amber;ctx.beginPath();ctx.arc(-10.5,-10.5,1.6,0,Math.PI*2);ctx.fill();
     } else if(u.type==='flamer'){
-      ctx.fillStyle='#4a2c22'; rr(ctx,-12,-11,11,4,2); ctx.fill(); rr(ctx,-12,7,11,4,2); ctx.fill(); ctx.fillStyle=amber; ctx.fillRect(-12.5,-10.4,2.4,2.8); ctx.fillRect(-12.5,7.6,2.4,2.8); ctx.fillRect(-3.5,-10.4,2.4,2.8); ctx.fillRect(-3.5,7.6,2.4,2.8);
-      ctx.fillStyle=hull; rr(ctx,-11,-8,19,16,5); ctx.fill(); ctx.strokeStyle=hullHi; ctx.lineWidth=1.2; ctx.stroke(); ctx.strokeStyle=outline; ctx.lineWidth=2; ctx.stroke(); ctx.fillStyle=hull2; poly(ctx,[8,-8,13.5,-5,13.5,5,8,8]); ctx.fill();
-      ctx.fillStyle=bright; ctx.fillRect(-3,-5.5,7,2); ctx.fillRect(-3,3.5,7,2); ctx.strokeStyle=main; ctx.lineWidth=1.2; for(let i=0;i<3;i++){ ctx.beginPath(); ctx.moveTo(-9+i*3,-7); ctx.lineTo(-9+i*3,-4); ctx.stroke(); ctx.beginPath(); ctx.moveTo(-9+i*3,4); ctx.lineTo(-9+i*3,7); ctx.stroke(); }
-      ctx.fillStyle='#0a1418'; poly(ctx,[13,-4.6,18.5,-2.8,18.5,2.8,13,4.6]); ctx.fill(); ctx.shadowColor=heat; ctx.shadowBlur=9; ctx.fillStyle=heat; ctx.beginPath(); ctx.arc(18.5,0,1.8+heatGlow*2.6,0,Math.PI*2); ctx.fill(); ctx.shadowBlur=0; spec(-4,-4,2,1,0.16);
+      ctx.fillStyle='#4a2c22';rr(ctx,-12,-11,11,4,2);ctx.fill();rr(ctx,-12,7,11,4,2);ctx.fill();ctx.fillStyle=amber;ctx.fillRect(-12.5,-10.4,2.4,2.8);ctx.fillRect(-12.5,7.6,2.4,2.8);ctx.fillRect(-3.5,-10.4,2.4,2.8);ctx.fillRect(-3.5,7.6,2.4,2.8);
+      ctx.fillStyle=hull;rr(ctx,-11,-8,19,16,5);ctx.fill();ctx.strokeStyle=hullHi;ctx.lineWidth=1.2;ctx.stroke();ctx.strokeStyle=outline;ctx.lineWidth=2;ctx.stroke();ctx.fillStyle=hull2;poly(ctx,[8,-8,13.5,-5,13.5,5,8,8]);ctx.fill();
+      ctx.fillStyle=bright;ctx.fillRect(-3,-5.5,7,2);ctx.fillRect(-3,3.5,7,2);ctx.strokeStyle=main;ctx.lineWidth=1.2;for(let i=0;i<3;i++){ctx.beginPath();ctx.moveTo(-9+i*3,-7);ctx.lineTo(-9+i*3,-4);ctx.stroke();ctx.beginPath();ctx.moveTo(-9+i*3,4);ctx.lineTo(-9+i*3,7);ctx.stroke();}
+      ctx.fillStyle='#0a1418';poly(ctx,[13,-4.6,18.5,-2.8,18.5,2.8,13,4.6]);ctx.fill();ctx.shadowColor=heat;ctx.shadowBlur=9;ctx.fillStyle=heat;ctx.beginPath();ctx.arc(18.5,0,1.8+heatGlow*2.6,0,Math.PI*2);ctx.fill();ctx.shadowBlur=0;
     } else if(u.type==='scout'){
-      ctx.fillStyle=hull; poly(ctx,[12,0,-8,-8,-4,0,-8,8]); ctx.fill(); ctx.strokeStyle=hullHi; ctx.lineWidth=1.2; ctx.stroke(); ctx.strokeStyle=outline; ctx.lineWidth=2; ctx.stroke();
-      ctx.strokeStyle=main; ctx.lineWidth=1.2; ctx.beginPath(); ctx.moveTo(9,0); ctx.lineTo(-6,-6); ctx.moveTo(9,0); ctx.lineTo(-6,6); ctx.stroke(); ctx.fillStyle=bright; ctx.beginPath(); ctx.arc(2,0,2.6,0,Math.PI*2); ctx.fill();
-      ctx.strokeStyle=hull2; ctx.lineWidth=1.6; ctx.beginPath(); ctx.moveTo(-6,0); ctx.lineTo(-6,-10); ctx.stroke(); ctx.fillStyle=amber; ctx.beginPath(); ctx.arc(-6,-11,1.7+pulse*0.7,0,Math.PI*2); ctx.fill();
-      const dx2=10+Math.sin(t*2.2)*2, dy2=-8+Math.cos(t*3.1)*1.6; ctx.strokeStyle=bright; ctx.lineWidth=1; ctx.globalAlpha=0.55; ctx.beginPath(); ctx.moveTo(2,0); ctx.lineTo(dx2,dy2); ctx.stroke(); ctx.globalAlpha=1; ctx.shadowColor=bright; ctx.shadowBlur=6; ctx.fillStyle=bright; ctx.beginPath(); ctx.arc(dx2,dy2,1.9,0,Math.PI*2); ctx.fill(); ctx.shadowBlur=0;
-      ctx.fillStyle=heat; ctx.globalAlpha=0.7; poly(ctx,[-8,-3,-8-4*eng,0,-8,3]); ctx.fill(); ctx.globalAlpha=1;
+      ctx.fillStyle=hull;poly(ctx,[12,0,-8,-8,-4,0,-8,8]);ctx.fill();ctx.strokeStyle=hullHi;ctx.lineWidth=1.2;ctx.stroke();ctx.strokeStyle=outline;ctx.lineWidth=2;ctx.stroke();
+      ctx.strokeStyle=main;ctx.lineWidth=1.2;ctx.beginPath();ctx.moveTo(9,0);ctx.lineTo(-6,-6);ctx.moveTo(9,0);ctx.lineTo(-6,6);ctx.stroke();ctx.fillStyle=bright;ctx.beginPath();ctx.arc(2,0,2.6,0,Math.PI*2);ctx.fill();
+      ctx.strokeStyle=hull2;ctx.lineWidth=1.6;ctx.beginPath();ctx.moveTo(-6,0);ctx.lineTo(-6,-10);ctx.stroke();ctx.fillStyle=amber;ctx.beginPath();ctx.arc(-6,-11,1.7+pulse*0.7,0,Math.PI*2);ctx.fill();
+      const dx2=10+Math.sin(t*2.2)*2, dy2=-8+Math.cos(t*3.1)*1.6;ctx.strokeStyle=bright;ctx.lineWidth=1;ctx.globalAlpha=0.55;ctx.beginPath();ctx.moveTo(2,0);ctx.lineTo(dx2,dy2);ctx.stroke();ctx.globalAlpha=1;ctx.shadowColor=bright;ctx.shadowBlur=6;ctx.fillStyle=bright;ctx.beginPath();ctx.arc(dx2,dy2,1.9,0,Math.PI*2);ctx.fill();ctx.shadowBlur=0;
+      ctx.fillStyle=heat;ctx.globalAlpha=0.7;poly(ctx,[-8,-3,-8-4*eng,0,-8,3]);ctx.fill();ctx.globalAlpha=1;
     } else {
-      ctx.fillStyle=hull; ctx.fillRect(-16,-13,28,4.6); ctx.fillRect(-16,8.4,28,4.6); ctx.fillStyle=main; ctx.globalAlpha=0.5+0.5*flick*eng; for(let i=0;i<3;i++){ ctx.fillRect(-14+i*8,-12.4,5,3.2); ctx.fillRect(-14+i*8,9.2,5,3.2); } ctx.globalAlpha=1;
-      ctx.strokeStyle=hull2; ctx.lineWidth=2.6; ctx.beginPath(); ctx.moveTo(-14,-7); ctx.lineTo(-19,-11); ctx.stroke(); ctx.beginPath(); ctx.moveTo(-14,7); ctx.lineTo(-19,11); ctx.stroke();
-      ctx.fillStyle=hull; rr(ctx,-14,-7.5,26,15,4); ctx.fill(); ctx.strokeStyle=hullHi; ctx.lineWidth=1.2; ctx.stroke(); ctx.strokeStyle=outline; ctx.lineWidth=2; ctx.stroke();
-      ctx.fillStyle=hull2; ctx.beginPath(); ctx.arc(-9,0,5,0,0,Math.PI*2); ctx.fill(); ctx.fillStyle=amber; for(let i=0;i<3;i++){ const a=t*0.7+(i*Math.PI*2)/3; ctx.beginPath(); ctx.arc(-9+Math.cos(a)*2.8, Math.sin(a)*2.8,1.3,0,Math.PI*2); ctx.fill(); }
-      ctx.fillStyle=hull2; ctx.beginPath(); ctx.arc(2,0,6.6,0,Math.PI*2); ctx.fill(); ctx.strokeStyle=main; ctx.lineWidth=1.6; ctx.beginPath(); ctx.arc(2,0,6.6,0,Math.PI*2); ctx.stroke();
-      const bl3=23-recoil*5; ctx.fillStyle='#0a1418'; ctx.fillRect(4,-2.1,bl3,4.2); ctx.fillStyle=main; ctx.fillRect(4+bl3-3,-3.1,3,6.2); if(recoil>0.5){ ctx.fillStyle=heat; ctx.beginPath(); ctx.arc(4+bl3+1.5,0,2.8,0,Math.PI*2); ctx.fill(); }
-      ctx.shadowColor=amber; ctx.shadowBlur=7; ctx.fillStyle=amber; ctx.beginPath(); ctx.arc(2,0,2+pulse*0.7,0,Math.PI*2); ctx.fill(); ctx.shadowBlur=0;
+      ctx.fillStyle=hull;ctx.fillRect(-16,-13,28,4.6);ctx.fillRect(-16,8.4,28,4.6);ctx.fillStyle=main;ctx.globalAlpha=0.5+0.5*flick*eng;for(let i=0;i<3;i++){ctx.fillRect(-14+i*8,-12.4,5,3.2);ctx.fillRect(-14+i*8,9.2,5,3.2);}ctx.globalAlpha=1;
+      ctx.strokeStyle=hull2;ctx.lineWidth=2.6;ctx.beginPath();ctx.moveTo(-14,-7);ctx.lineTo(-19,-11);ctx.stroke();ctx.beginPath();ctx.moveTo(-14,7);ctx.lineTo(-19,11);ctx.stroke();
+      ctx.fillStyle=hull;rr(ctx,-14,-7.5,26,15,4);ctx.fill();ctx.strokeStyle=hullHi;ctx.lineWidth=1.2;ctx.stroke();ctx.strokeStyle=outline;ctx.lineWidth=2;ctx.stroke();
+      ctx.fillStyle=hull2;ctx.beginPath();ctx.arc(-9,0,5,0,Math.PI*2);ctx.fill();ctx.fillStyle=amber;for(let i=0;i<3;i++){const a=t*0.7+(i*Math.PI*2)/3;ctx.beginPath();ctx.arc(-9+Math.cos(a)*2.8,Math.sin(a)*2.8,1.3,0,Math.PI*2);ctx.fill();}
+      ctx.fillStyle=hull2;ctx.beginPath();ctx.arc(2,0,6.6,0,Math.PI*2);ctx.fill();ctx.strokeStyle=main;ctx.lineWidth=1.6;ctx.beginPath();ctx.arc(2,0,6.6,0,Math.PI*2);ctx.stroke();
+      const bl3=23-recoil*5;ctx.fillStyle='#0a1418';ctx.fillRect(4,-2.1,bl3,4.2);ctx.fillStyle=main;ctx.fillRect(4+bl3-3,-3.1,3,6.2);if(recoil>0.5){ctx.fillStyle=heat;ctx.beginPath();ctx.arc(4+bl3+1.5,0,2.8,0,Math.PI*2);ctx.fill();}
+      ctx.shadowColor=amber;ctx.shadowBlur=7;ctx.fillStyle=amber;ctx.beginPath();ctx.arc(2,0,2+pulse*0.7,0,Math.PI*2);ctx.fill();ctx.shadowBlur=0;
     }
   }
-  if(u.carrying>0){ ctx.shadowColor=COLORS.mineral; ctx.shadowBlur=8; ctx.fillStyle=COLORS.mineral; poly(ctx,[-10,-3,-6,-8.5,-2,-3,-6,2.5]); ctx.fill(); ctx.shadowBlur=0; ctx.fillStyle='rgba(255,255,255,0.75)'; poly(ctx,[-6,-8.5,-4.4,-3.4,-6,-1]); ctx.fill(); }
-  ctx.fillStyle=bright; ctx.globalAlpha=0.95; ctx.fillRect(u.r*0.45,-1.2,3.5,2.4); ctx.globalAlpha=1;
-  if(u.flashT>0){ ctx.fillStyle=`rgba(255,255,255,${u.flashT*2.8})`; ctx.beginPath(); ctx.arc(0,0,u.r+2,0,Math.PI*2); ctx.fill(); }
+  if(u.carrying>0){ctx.shadowColor=COLORS.mineral;ctx.shadowBlur=8;ctx.fillStyle=COLORS.mineral;poly(ctx,[-10,-3,-6,-8.5,-2,-3,-6,2.5]);ctx.fill();ctx.shadowBlur=0;ctx.fillStyle='rgba(255,255,255,0.75)';poly(ctx,[-6,-8.5,-4.4,-3.4,-6,-1]);ctx.fill();}
+  ctx.fillStyle=bright;ctx.globalAlpha=0.95;ctx.fillRect(u.r*0.45,-1.2,3.5,2.4);ctx.globalAlpha=1;
+  if(u.flashT>0){ctx.fillStyle=`rgba(255,255,255,${u.flashT*2.8})`;ctx.beginPath();ctx.arc(0,0,u.r+2,0,Math.PI*2);ctx.fill();}
   ctx.restore();
-  if(u.selected && u.idleReason==='unreachable'){ ctx.font='bold 13px system-ui, sans-serif'; ctx.textAlign='center'; ctx.fillStyle='#ff6a5e'; ctx.fillText('!',rx+u.r+6,ry-u.r-2); ctx.textAlign='left'; }
-  if(u.selected || u.hp<u.maxHp){ const w=u.cfg.vehicle?34:25, x0=rx-w/2, y0=ry-u.r-12, frac=Math.max(0,u.hp/u.maxHp); ctx.fillStyle='rgba(4,15,19,0.88)'; ctx.fillRect(x0-1,y0-1,w+2,6); ctx.fillStyle=frac<0.33?'#ff806e':isP?'#8cedcc':'#ffb078'; ctx.fillRect(x0,y0,w*frac,4); }
+  if(u.selected&&u.idleReason==='unreachable'){ctx.font='bold 13px system-ui, sans-serif';ctx.textAlign='center';ctx.fillStyle='#ff6a5e';ctx.fillText('!',rx+u.r+6,ry-u.r-2);ctx.textAlign='left';}
+  if(u.selected||u.hp<u.maxHp){const w=u.cfg.vehicle?34:25,x0=rx-w/2,y0=ry-u.r-12,frac=Math.max(0,u.hp/u.maxHp);ctx.fillStyle='rgba(4,15,19,0.88)';ctx.fillRect(x0-1,y0-1,w+2,6);ctx.fillStyle=frac<0.33?'#ff806e':isP?'#8cedcc':'#ffb078';ctx.fillRect(x0,y0,w*frac,4);}
 }
